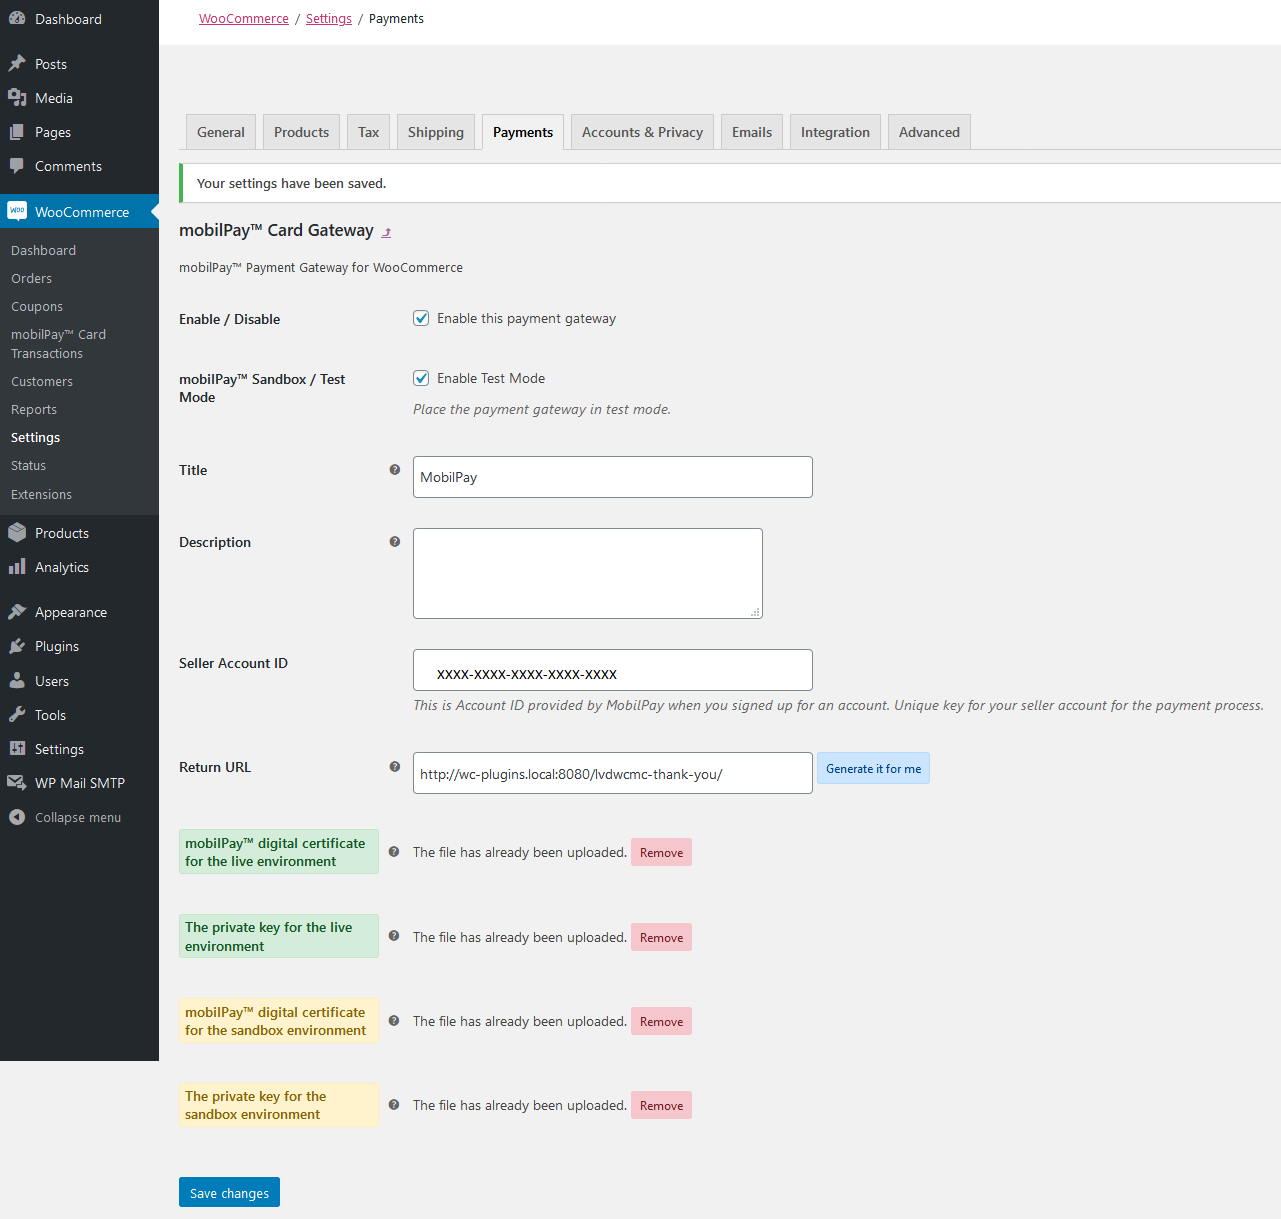
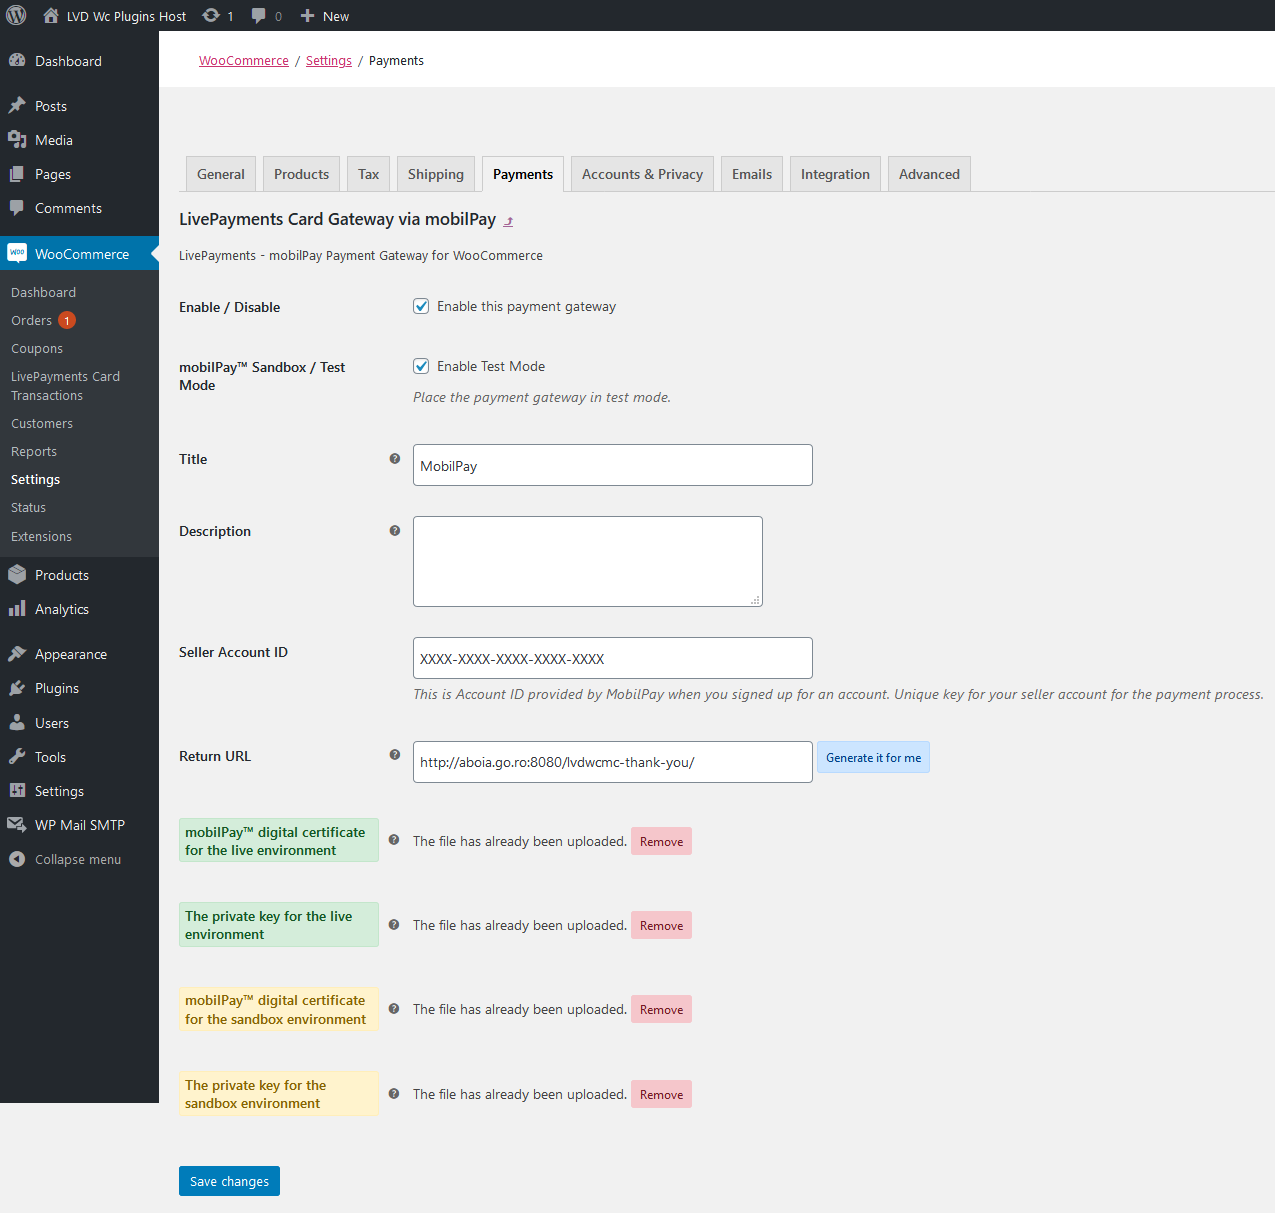
Updated screenshots and some UI strings

diff --git a/lib/Plugin.php b/lib/Plugin.php
@@ -479,7 +479,7 @@ class Plugin {
 
             if ($addDashboardWidget) {
                 wp_add_dashboard_widget('lvdwcmc-transactions-status', 
-                    __('mobilPay&trade; Card Transaction Status', 'livepayments-mp-wc'), 
+                    __('LivePayments Card Transaction Status', 'livepayments-mp-wc'), 
                     array($this, 'renderTransactionsStatusWidget'), 
                         null,
                         null);
